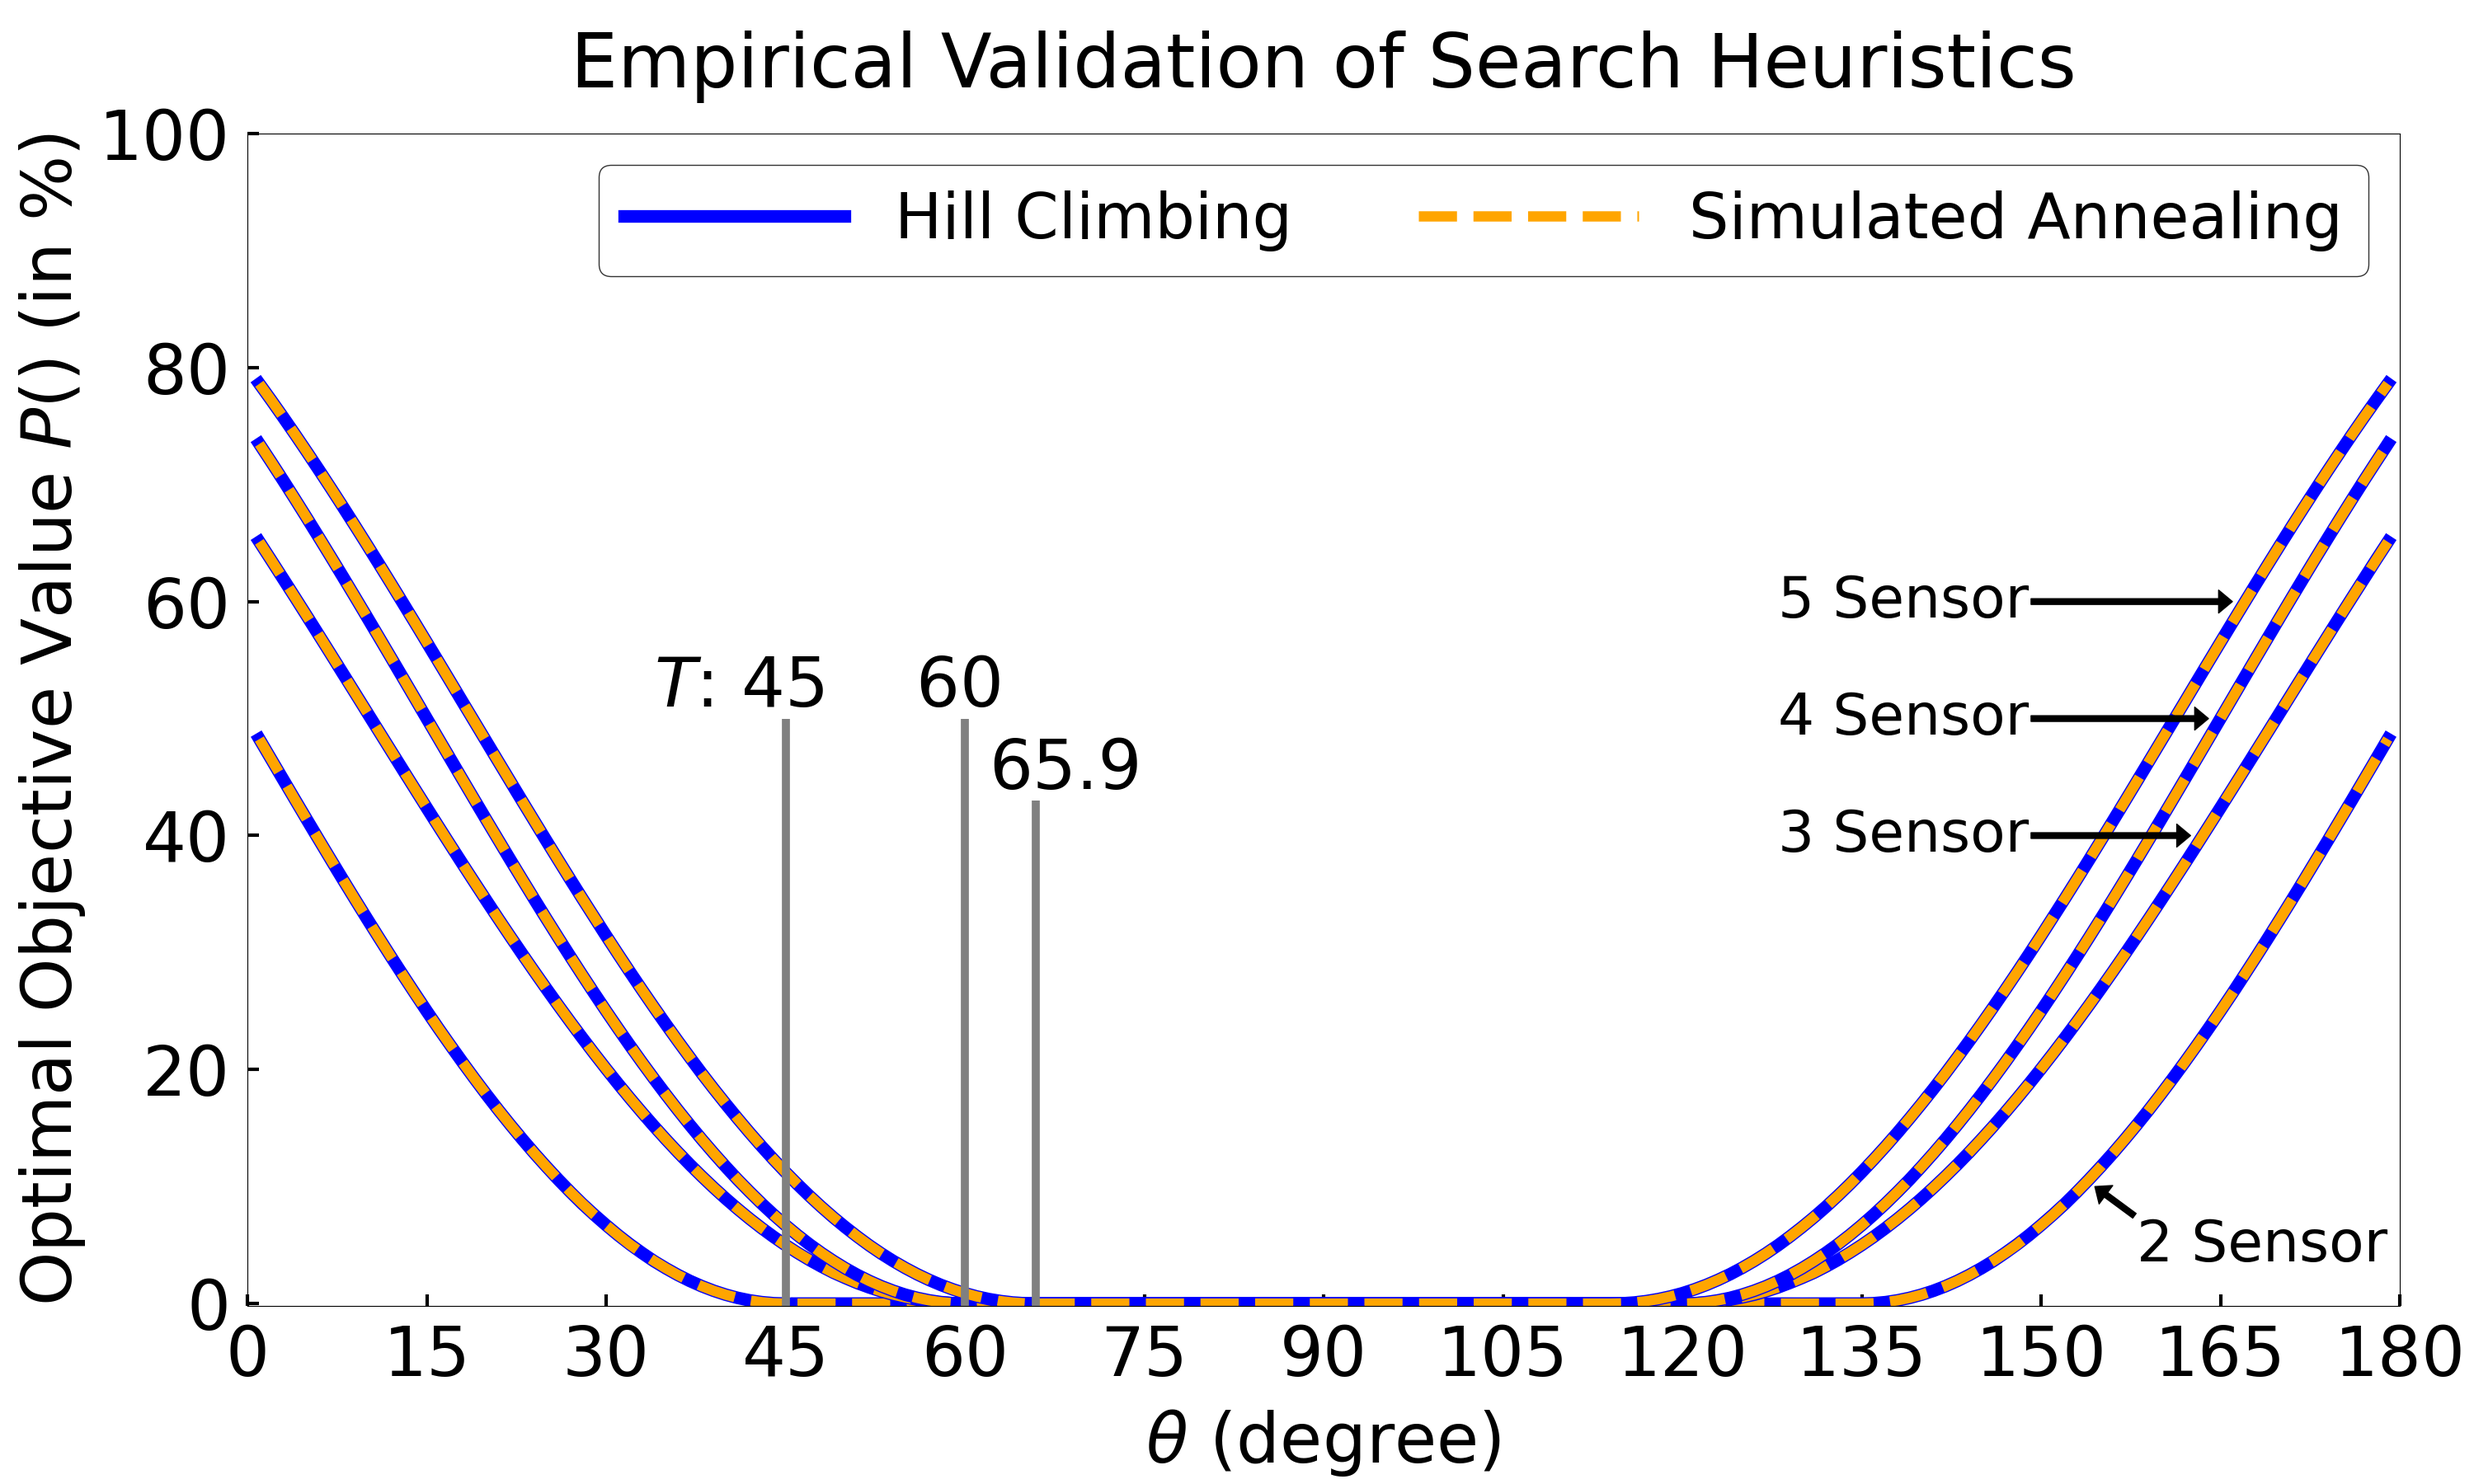
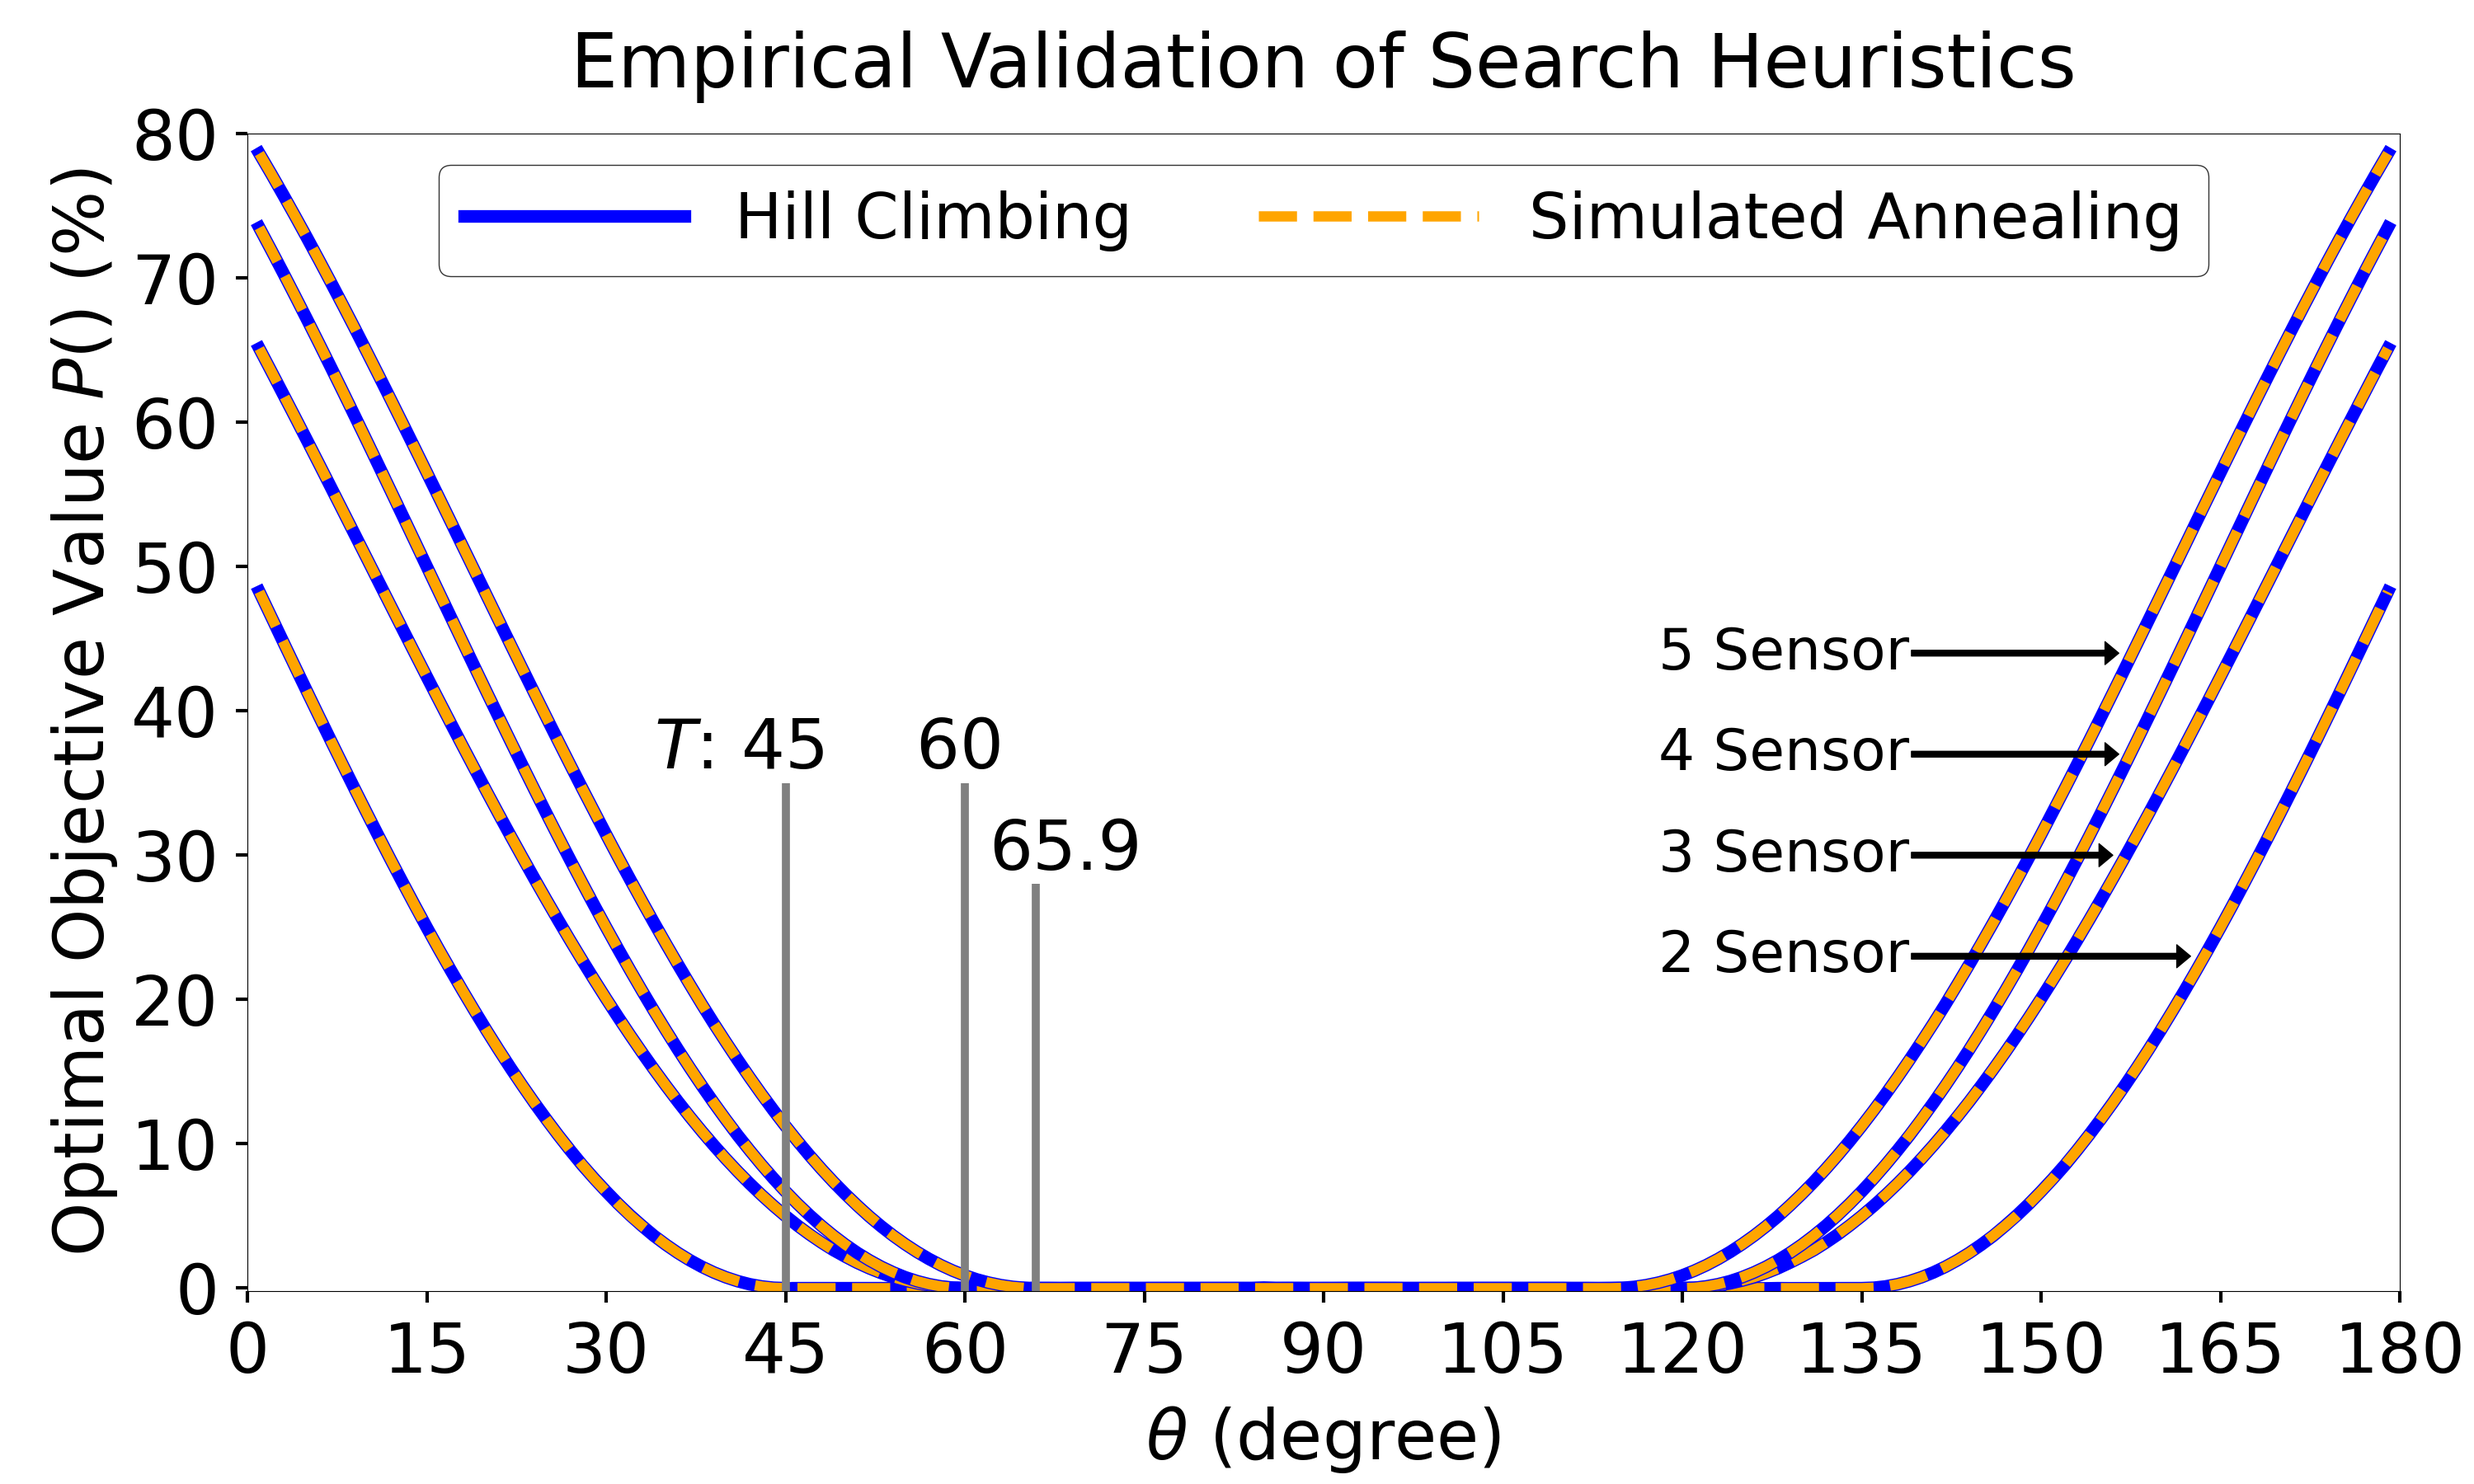
update plots for varying theta, both uniform prior and non-uniform prior

diff --git a/plot.py b/plot.py
@@ -127,7 +127,7 @@ class Plot:
         # step 2: plotting
 
         fig, ax = plt.subplots(figsize=(30, 18))
-        fig.subplots_adjust(left=0.1, right=0.97, top=0.91, bottom=0.12)
+        fig.subplots_adjust(left=0.1, right=0.97, top=0.91, bottom=0.13)
 
         ax.plot(X2[:45], Y2[methods[0]][:45], linestyle=Plot.LINE_STYLE[methods[0]], color=Plot.COLOR[methods[0]], linewidth=11, label=Plot.METHOD[methods[0]])
         ax.plot(X2[45:], Y2[methods[0]][45:], linestyle=Plot.LINE_STYLE[methods[0]], color=Plot.COLOR[methods[0]], linewidth=11)
@@ -146,28 +146,28 @@ class Plot:
         ax.plot(X5[:65], Y5[methods[1]][:65], linestyle=Plot.LINE_STYLE[methods[1]], color=Plot.COLOR[methods[1]], linewidth=9)
         ax.plot(X5[65:], Y5[methods[1]][65:], linestyle=Plot.LINE_STYLE[methods[1]], color=Plot.COLOR[methods[1]], linewidth=9)
         arrowprops = dict(facecolor='black', width=5, headwidth=20)
-        ax.annotate('2 Sensor', xy=(154.5, 0.1), xytext=(158, 0.05), arrowprops=arrowprops, fontsize=50, va='center')
-        ax.annotate('3 Sensor', xy=(162.5, 0.4),   xytext=(128, 0.4), arrowprops=arrowprops, fontsize=50, va='center')
-        ax.annotate('4 Sensor', xy=(164, 0.5),  xytext=(128, 0.5), arrowprops=arrowprops, fontsize=50, va='center')
-        ax.annotate('5 Sensor', xy=(166, 0.6), xytext=(128, 0.6), arrowprops=arrowprops, fontsize=50, va='center')
-        ax.vlines(x=45,   ymin=-0.002, ymax=0.5, linestyles='solid', colors='grey', zorder=10)
-        ax.vlines(x=60,   ymin=-0.002, ymax=0.5, linestyles='solid', colors='grey', zorder=10)
-        ax.vlines(x=65.9, ymin=-0.002, ymax=0.43, linestyles='solid', colors='grey', zorder=10)
-        ax.text(34, 0.51, '$T$: 45    60')
-        ax.text(62, 0.44, '65.9')
+        ax.annotate('2 Sensor', xy=(162.5, 0.23), xytext=(118, 0.23), arrowprops=arrowprops, fontsize=50, va='center')
+        ax.annotate('3 Sensor', xy=(156, 0.3),    xytext=(118, 0.3), arrowprops=arrowprops, fontsize=50, va='center')
+        ax.annotate('4 Sensor', xy=(156.5, 0.37), xytext=(118, 0.37), arrowprops=arrowprops, fontsize=50, va='center')
+        ax.annotate('5 Sensor', xy=(156.5, 0.44), xytext=(118, 0.44), arrowprops=arrowprops, fontsize=50, va='center')
+        ax.vlines(x=45,   ymin=-0.002, ymax=0.35, linestyles='solid', colors='grey', zorder=10)
+        ax.vlines(x=60,   ymin=-0.002, ymax=0.35, linestyles='solid', colors='grey', zorder=10)
+        ax.vlines(x=65.9, ymin=-0.002, ymax=0.28, linestyles='solid', colors='grey', zorder=10)
+        ax.text(34, 0.36, '$T$: 45    60')
+        ax.text(62, 0.29, '65.9')
 
         xticks = [i for i in range(0, 181, 15)]
         ax.set_xticks(xticks)
         ax.set_xticklabels([f'{x}' for x in xticks])
-        yticks = [0, 0.2, 0.4, 0.6, 0.8, 1]
+        yticks = [0, 0.1, 0.2, 0.3, 0.4, 0.5, 0.6, 0.7, 0.8]
         ax.set_yticks(yticks)
         ax.set_yticklabels([f'{int(y * 100)}' for y in yticks])
         ax.set_xlim([0, 180])
-        ax.set_ylim([-0.002, 1])
-        ax.tick_params(axis='x', direction='in', length=10, width=3, pad=15)
-        ax.tick_params(axis='y', direction='in', length=10, width=3, pad=15)
+        ax.set_ylim([-0.002, 0.8])
+        ax.tick_params(axis='x', direction='out', length=10, width=3, pad=15)
+        ax.tick_params(axis='y', direction='out', length=10, width=3, pad=15)
         ax.set_title('Empirical Validation of Search Heuristics', fontsize=65, pad=40)
-        ax.legend(ncol=2, loc='upper right',  fontsize=55, handlelength=3.5, edgecolor='black')
+        ax.legend(ncol=2, loc='upper center',  fontsize=55, handlelength=3.5, edgecolor='black')
         ax.set_xlabel('$\\theta$ (degree)', labelpad=15)
         ax.set_ylabel('Optimal Objective Value $P()$ (%)', fontsize=60, labelpad=10)
         fig.savefig(filename)
@@ -246,7 +246,7 @@ class Plot:
                 else:
                     raise Exception(f'data missing: n=5 theta={theta}')
             Y5[method] = y2
-        
+
         # step 2: plotting
 
         fig, ax = plt.subplots(figsize=(30, 18))
@@ -259,28 +259,29 @@ class Plot:
         ax.plot(X5, Y5[methods[0]], linestyle=Plot.LINE_STYLE[methods[0]], color=Plot.COLOR[methods[0]], linewidth=11)
         ax.plot(X5, Y5[methods[1]], linestyle=Plot.LINE_STYLE[methods[1]], color=Plot.COLOR[methods[1]], linewidth=9)
         arrowprops = dict(facecolor='black', width=5, headwidth=20)
-        ax.annotate('3 Sensor', xy=(164, 0.4), xytext=(128, 0.4), arrowprops=arrowprops, fontsize=50, va='center')
-        ax.annotate('4 Sensor', xy=(164.5, 0.5), xytext=(128, 0.5), arrowprops=arrowprops, fontsize=50, va='center')
-        ax.annotate('5 Sensor', xy=(167, 0.6), xytext=(128, 0.6), arrowprops=arrowprops, fontsize=50, va='center')
-        # ax.annotate('Prior of 3 Sensor: []', xy=(164, 0.4), xytext=(30, 0.7), arrowprops=arrowprops, fontsize=50, va='center')
-        # ax.annotate('Prior of 4 Sensor: []', xy=(164.5, 0.5),  xytext=(30, 0.8), arrowprops=arrowprops, fontsize=50, va='center')
-        # ax.annotate('Prior of 5 Sensor: []', xy=(166, 0.6), xytext=(30, 0.9), arrowprops=arrowprops, fontsize=50, va='center')
-        ax.text(30, 0.81, 'Prior of 3 Sensor: [0.256, 0.435, 0.309]', fontsize=50)
-        ax.text(30, 0.75, 'Prior of 4 Sensor: [0.192, 0.326, 0.232, 0.25]', fontsize=50)
-        ax.text(30, 0.69, 'Prior of 5 Sensor: [0.154, 0.261, 0.185, 0.20, 0.20]', fontsize=50)
+        ax.annotate('3 Sensor', xy=(157, 0.3),  xytext=(118, 0.3), arrowprops=arrowprops, fontsize=50, va='center')
+        ax.annotate('4 Sensor', xy=(157, 0.37), xytext=(118, 0.37), arrowprops=arrowprops, fontsize=50, va='center')
+        ax.annotate('5 Sensor', xy=(157, 0.44), xytext=(118, 0.44), arrowprops=arrowprops, fontsize=50, va='center')
+        ax.text(30, 0.64, 'Prior of 3 Sensor: [0.256, 0.435, 0.309]', fontsize=50)
+        ax.text(30, 0.58, 'Prior of 4 Sensor: [0.192, 0.326, 0.232, 0.25]', fontsize=50)
+        ax.text(30, 0.52, 'Prior of 5 Sensor: [0.154, 0.261, 0.185, 0.20, 0.20]', fontsize=50)
+        ax.vlines(x=60,   ymin=-0.002, ymax=0.25, linestyles='solid', colors='grey', zorder=10)
+        ax.vlines(x=65.9, ymin=-0.002, ymax=0.2, linestyles='solid', colors='grey', zorder=10)
+        ax.text(48, 0.26, '$T$=60')
+        ax.text(62, 0.21, '65.9')
 
         xticks = [i for i in range(0, 181, 15)]
         ax.set_xticks(xticks)
         ax.set_xticklabels([f'{x}' for x in xticks])
-        yticks = [0, 0.1, 0.2, 0.3, 0.4, 0.5, 0.6, 0.7, 0.8, 0.9, 1]
+        yticks = [0, 0.1, 0.2, 0.3, 0.4, 0.5, 0.6, 0.7, 0.8]
         ax.set_yticks(yticks)
         ax.set_yticklabels([f'{int(y * 100)}' for y in yticks])
         ax.set_xlim([0, 180])
-        ax.set_ylim([-0.002, 1])
+        ax.set_ylim([-0.002, 0.8])
         ax.tick_params(axis='x', direction='out', length=10, width=3, pad=15)
         ax.tick_params(axis='y', direction='out', length=10, width=3, pad=15)
-        ax.set_title('Empirical Validation of Search Heuristics for Non-uniform Prior', fontsize=63, pad=40)
-        ax.legend(ncol=2, loc='upper right',  fontsize=55, handlelength=3.5, edgecolor='black')
+        ax.set_title('Non-uniform Prior: Empirical Validation of Search Heuristics', fontsize=63, pad=40)
+        ax.legend(ncol=2, loc='upper center',  fontsize=55, handlelength=3.5, edgecolor='black')
         ax.set_xlabel('$\\theta$ (degree)', labelpad=10)
         ax.set_ylabel('Optimal Objective Value $P()$ (%)', fontsize=60, labelpad=10)
         fig.savefig(filename)
@@ -1346,8 +1347,8 @@ def vary_theta_nonequal_prior():
     data = Logger.read_log(logs)
     filename = 'result/12.7.2023/varying_theta_nonequal_prior.png'
     Plot.vary_theta_nonequal_prior(data, filename)
-    filename = 'result/12.7.2023/varying_theta_nonequal_prior_zoom.png'
-    Plot.vary_theta_nonequal_prior_zoom(data, filename)
+    # filename = 'result/12.7.2023/varying_theta_nonequal_prior_zoom.png'
+    # Plot.vary_theta_nonequal_prior_zoom(data, filename)
 
 
 def methods_similar():
@@ -1521,7 +1522,7 @@ def pra():
 
 
 if __name__ == '__main__':
-    # vary_theta()
+    vary_theta()
     # methods_similar()
     # lemma2()
     # conjecture()
